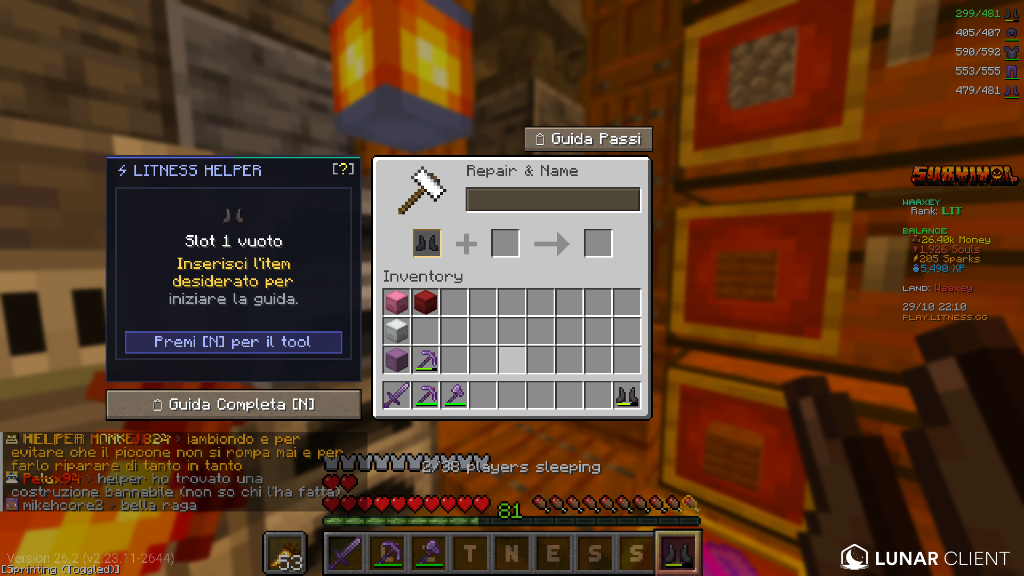
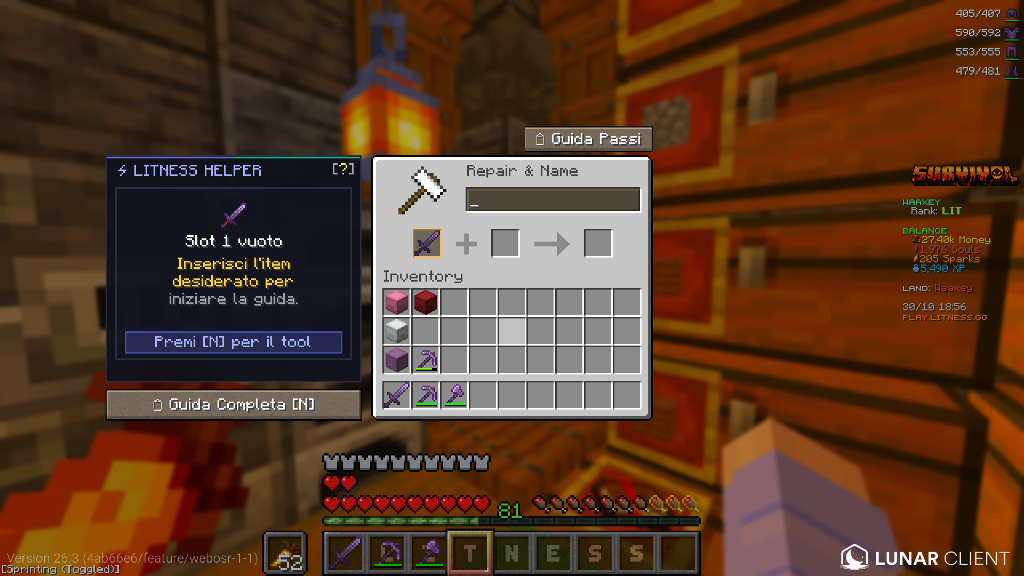
Fix: ampliata GUI incudine laterale, istruzioni unione libri migliorate, fix click /ah e preview incudine pulita

diff --git a/src/client/java/com/litness/optimizer/mixin/AnvilScreenMixin.java b/src/client/java/com/litness/optimizer/mixin/AnvilScreenMixin.java
@@ -55,7 +55,7 @@ public abstract class AnvilScreenMixin extends ItemCombinerScreen<AnvilMenu> {
     }
 
     private int getSidebarWidth() {
-        return 160;
+        return 182;
     }
 
     private int getSidebarX() {
@@ -80,12 +80,14 @@ public abstract class AnvilScreenMixin extends ItemCombinerScreen<AnvilMenu> {
     private void litness_addOptimizerButton(CallbackInfo ci) {
         int sideW = getSidebarWidth();
         int sideX = getSidebarX();
-        int btnY = this.topPos + this.imageHeight - 20;
+        int sideY = this.topPos - 14;
+        int sideH = this.imageHeight + 10;
+        int btnY = sideY + sideH + 3;
 
         // 1. Tasto nella sidebar sotto l'helper
         this.addRenderableWidget(Button.builder(Component.literal("📋 Guida Completa [N]"), button -> {
             openOptimizer();
-        }).bounds(sideX, btnY, sideW, 20).build());
+        }).bounds(sideX, btnY, sideW, 18).build());
 
         // 2. Tasto rapido direttamente sopra l'incudine (nessuna sovrapposizione con il titolo)
         int topBtnW = 80;
@@ -111,8 +113,8 @@ public abstract class AnvilScreenMixin extends ItemCombinerScreen<AnvilMenu> {
 
             int sideW = getSidebarWidth();
             int sideX = getSidebarX();
-            int sideY = this.topPos;
-            int sideH = this.imageHeight - 24;
+            int sideY = this.topPos - 14;
+            int sideH = this.imageHeight + 10;
 
             // Box scuro elegante laterale (stile dark glass premium)
             extractor.fill(sideX, sideY, sideX + sideW, sideY + sideH, 0xF20F111A);
@@ -146,36 +148,36 @@ public abstract class AnvilScreenMixin extends ItemCombinerScreen<AnvilMenu> {
 
                 // Box interno per l'oggetto inserito
                 int wellY = sideY + 18;
-                int wellH = 37;
+                int wellH = 38;
                 extractor.fill(sideX + 6, wellY, sideX + sideW - 6, wellY + wellH, 0x60161826);
                 extractor.outline(sideX + 6, wellY, sideW - 12, wellH, 0xFF26293D);
 
                 // Icona 3D dell'oggetto
-                extractor.fakeItem(slot0, sideX + 9, wellY + 10);
+                extractor.fakeItem(slot0, sideX + 9, wellY + 11);
 
                 // Nome oggetto
                 String itemName = slot0.getHoverName().getString();
-                String trimmedName = trimToWidth(itemName, sideW - 44);
+                String trimmedName = trimToWidth(itemName, sideW - 38);
                 extractor.text(this.font, trimmedName, sideX + 30, wellY + 4, 0xFFFFFFFF, false);
 
                 // Penalità di lavoro
                 if (penalty == 0) {
-                    extractor.text(this.font, "Penalità: 0 liv.", sideX + 30, wellY + 14, 0xFF34D399, false);
+                    extractor.text(this.font, "Penalità: 0 liv.", sideX + 30, wellY + 15, 0xFF34D399, false);
                 } else {
-                    extractor.text(this.font, "Penalità: +" + penalty + " liv.", sideX + 30, wellY + 14, 0xFFF59E0B, false);
+                    extractor.text(this.font, "Penalità: +" + penalty + " liv.", sideX + 30, wellY + 15, 0xFFF59E0B, false);
                 }
 
                 // Analisi Maxabilità (se il player ha già incantato senza guida)
                 com.litness.optimizer.calculator.MaxabilityAnalyzer.MaxabilityResult maxability =
                         com.litness.optimizer.calculator.MaxabilityAnalyzer.analyze(slot0, cachedSlot0Enchants);
                 String maxBadge = trimToWidth(maxability.statusBadge, sideW - 36);
-                extractor.text(this.font, maxBadge, sideX + 30, wellY + 25, 0xFFFFFFFF, false);
+                extractor.text(this.font, maxBadge, sideX + 30, wellY + 26, 0xFFFFFFFF, false);
 
                 if (mouseX >= sideX + 6 && mouseX <= sideX + sideW - 6 && mouseY >= wellY && mouseY <= wellY + wellH) {
                     com.litness.optimizer.gui.AnvilTooltipState.hoveredMaxabilityResult = maxability;
                 }
 
-                int curY = wellY + wellH + 4;
+                int curY = wellY + wellH + 5;
 
                 // Incantesimi già presenti sull'oggetto
                 if (!cachedSlot0Enchants.isEmpty()) {
@@ -200,9 +202,9 @@ public abstract class AnvilScreenMixin extends ItemCombinerScreen<AnvilMenu> {
                 }
 
                 // Card Prossima Mossa
-                int cardBottom = sideY + sideH - 12;
-                int moveY = Math.max(curY + 3, sideY + 54);
-                int moveH = Math.max(44, cardBottom - moveY);
+                int cardBottom = sideY + sideH - 7;
+                int moveY = Math.max(curY + 4, sideY + 60);
+                int moveH = cardBottom - moveY;
 
                 if (cachedSolution != null && !cachedSolution.steps.isEmpty()) {
                     MergeStep nextStep = cachedSolution.steps.get(0);
@@ -246,30 +248,36 @@ public abstract class AnvilScreenMixin extends ItemCombinerScreen<AnvilMenu> {
                     String icon = ItemTypeHelper.getActionIcon(cachedItemKey);
 
                     String badge = nextStep.isBookToBook 
-                        ? "🔨 UNISCI LIBRI (1/" + totalSteps + ")" 
+                        ? "🔨 UNISCI 2 LIBRI (1/" + totalSteps + ")" 
                         : icon + " " + actionName + " (1/" + totalSteps + ")";
                     int badgeColor = nextStep.isBookToBook ? 0xFFFBBF24 : 0xFF34D399;
-                    extractor.text(this.font, badge, sideX + 10, moveY + 4, badgeColor, false);
+                    extractor.text(this.font, badge, sideX + 10, moveY + 5, badgeColor, false);
 
                     if (!slot1.isEmpty()) {
                         if (activeConflict != null) {
-                            extractor.text(this.font, "§e⚠ Conflitto!", sideX + sideW - 68, moveY + 4, 0xFFFBBF24, false);
+                            extractor.text(this.font, "§e⚠ Conflitto!", sideX + sideW - 68, moveY + 5, 0xFFFBBF24, false);
                         } else {
-                            extractor.text(this.font, "✓ Inserito", sideX + sideW - 54, moveY + 4, 0xFF34D399, false);
+                            extractor.text(this.font, "✓ Inserito", sideX + sideW - 54, moveY + 5, 0xFF34D399, false);
                         }
                     }
 
                     if (nextStep.isBookToBook) {
-                        String l1 = trimToWidth("1. " + nextStep.leftLabel, sideW - 20);
-                        String l2 = trimToWidth("2. " + nextStep.rightLabel, sideW - 20);
-                        extractor.text(this.font, l1, sideX + 10, moveY + 16, 0xFF93C5FD, false);
-                        extractor.text(this.font, l2, sideX + 10, moveY + 26, 0xFFF472B6, false);
-                        extractor.text(this.font, "Costo: " + nextStep.cost + " liv. XP", sideX + 10, moveY + 36, 0xFFFBBF24, false);
+                        String l1 = trimToWidth(nextStep.leftLabel, sideW - 55);
+                        String l2 = trimToWidth(nextStep.rightLabel, sideW - 55);
+                        extractor.text(this.font, "Slot 1: §b" + l1, sideX + 10, moveY + 18, 0xFF9CA3AF, false);
+                        extractor.text(this.font, "Slot 2: §d" + l2, sideX + 10, moveY + 30, 0xFF9CA3AF, false);
+                        extractor.text(this.font, "⚡ Costo: §a" + nextStep.cost + " liv. XP", sideX + 10, moveY + 42, 0xFF34D399, false);
+                        if (!slot0.is(Items.ENCHANTED_BOOK) && !slot0.is(Items.BOOK) && moveH >= 65) {
+                            extractor.text(this.font, "§6💡 Metti prima i 2 libri", sideX + 10, moveY + 54, 0xFFF59E0B, false);
+                        }
                     } else {
-                        extractor.text(this.font, "Metti nello slot 2:", sideX + 10, moveY + 15, 0xFFE0E7FF, false);
+                        extractor.text(this.font, "Metti nello §eSlot 2§7:", sideX + 10, moveY + 18, 0xFFE0E7FF, false);
                         String bName = trimToWidth("• " + nextStep.rightLabel, sideW - 20);
-                        extractor.text(this.font, bName, sideX + 10, moveY + 26, 0xFF34D399, false);
-                        extractor.text(this.font, "Costo: " + nextStep.cost + " liv. XP", sideX + 10, moveY + 37, 0xFFFBBF24, false);
+                        extractor.text(this.font, bName, sideX + 10, moveY + 30, 0xFF34D399, false);
+                        extractor.text(this.font, "⚡ Costo: §a" + nextStep.cost + " liv. XP", sideX + 10, moveY + 42, 0xFF34D399, false);
+                        if (moveH >= 65) {
+                            extractor.text(this.font, "§8(Premi [N] per tutta la guida)", sideX + 10, moveY + 54, 0xFF94A3B8, false);
+                        }
                     }
                 } else {
                     maxability = com.litness.optimizer.calculator.MaxabilityAnalyzer.analyze(slot0, cachedSlot0Enchants);
@@ -277,20 +285,20 @@ public abstract class AnvilScreenMixin extends ItemCombinerScreen<AnvilMenu> {
                     extractor.outline(sideX + 6, moveY, sideW - 12, moveH, 0xFF334155);
 
                     if (maxability.status == com.litness.optimizer.calculator.MaxabilityAnalyzer.Status.SATURATED) {
-                        extractor.text(this.font, "§c⛔ TROPPO COSTOSO!", sideX + 10, moveY + 4, 0xFFEF4444, false);
-                        extractor.text(this.font, "Penalità +" + penalty + " troppo alta,", sideX + 10, moveY + 16, 0xFFE2E8F0, false);
-                        extractor.text(this.font, "l'incudine blocca i libri.", sideX + 10, moveY + 26, 0xFF94A3B8, false);
-                        extractor.text(this.font, "Premi [N] per spiegazione", sideX + 10, moveY + 37, 0xFF818CF8, false);
+                        extractor.text(this.font, "§c⛔ TROPPO COSTOSO!", sideX + 10, moveY + 5, 0xFFEF4444, false);
+                        extractor.text(this.font, "Penalità +" + penalty + " troppo alta,", sideX + 10, moveY + 18, 0xFFE2E8F0, false);
+                        extractor.text(this.font, "l'incudine blocca i libri.", sideX + 10, moveY + 30, 0xFF94A3B8, false);
+                        extractor.text(this.font, "Premi [N] per spiegazione", sideX + 10, moveY + 43, 0xFF818CF8, false);
                     } else if (maxability.status == com.litness.optimizer.calculator.MaxabilityAnalyzer.Status.PARTIALLY_MAXABLE) {
-                        extractor.text(this.font, "§e⚠ ATTENZIONE PENALITÀ", sideX + 10, moveY + 4, 0xFFF59E0B, false);
-                        extractor.text(this.font, "Puoi aggiungere ancora", sideX + 10, moveY + 15, 0xFFE2E8F0, false);
-                        extractor.text(this.font, "fino a §a+" + maxability.maxAddable + " incanti §7con guida.", sideX + 10, moveY + 26, 0xFFFFFFFF, false);
-                        extractor.text(this.font, "Premi [N] per simulare!", sideX + 10, moveY + 37, 0xFF818CF8, false);
+                        extractor.text(this.font, "§e⚠ ATTENZIONE PENALITÀ", sideX + 10, moveY + 5, 0xFFF59E0B, false);
+                        extractor.text(this.font, "Puoi aggiungere ancora", sideX + 10, moveY + 18, 0xFFE2E8F0, false);
+                        extractor.text(this.font, "fino a §a+" + maxability.maxAddable + " incanti §7con guida.", sideX + 10, moveY + 30, 0xFFFFFFFF, false);
+                        extractor.text(this.font, "Premi [N] per simulare!", sideX + 10, moveY + 43, 0xFF818CF8, false);
                     } else {
-                        extractor.text(this.font, "ENCHANT HELPER", sideX + 10, moveY + 4, 0xFF94A3B8, false);
-                        extractor.text(this.font, "Nessun libro compatibile", sideX + 10, moveY + 16, 0xFFE2E8F0, false);
-                        extractor.text(this.font, "trovato nell'inventario.", sideX + 10, moveY + 26, 0xFF94A3B8, false);
-                        extractor.text(this.font, "Premi [N] per simulare!", sideX + 10, moveY + 37, 0xFF818CF8, false);
+                        extractor.text(this.font, "⚡ ENCHANT HELPER", sideX + 10, moveY + 5, 0xFF94A3B8, false);
+                        extractor.text(this.font, "Nessun libro compatibile", sideX + 10, moveY + 18, 0xFFE2E8F0, false);
+                        extractor.text(this.font, "trovato nell'inventario.", sideX + 10, moveY + 30, 0xFF94A3B8, false);
+                        extractor.text(this.font, "Premi [N] per simulare!", sideX + 10, moveY + 43, 0xFF818CF8, false);
                     }
                 }
             } else {
@@ -329,22 +337,23 @@ public abstract class AnvilScreenMixin extends ItemCombinerScreen<AnvilMenu> {
 
                 // Empty state pulito e curato con suggerimento dinamico dell'oggetto
                 int cardY = sideY + 20;
-                int cardH = sideH - 34;
+                int cardH = sideH - 32;
 
                 extractor.fill(sideX + 6, cardY, sideX + sideW - 6, cardY + cardH, 0x40161826);
                 extractor.outline(sideX + 6, cardY, sideW - 12, cardH, 0xFF2A2D40);
 
-                extractor.fakeItem(ghostItem, sideX + (sideW / 2) - 8, cardY + 10);
+                int midX = sideX + (sideW / 2);
+                extractor.fakeItem(ghostItem, midX - 8, cardY + 18);
 
-                extractor.centeredText(this.font, "Slot 1 vuoto", sideX + (sideW / 2), cardY + 30, 0xFFFFFFFF);
-                extractor.centeredText(this.font, "Inserisci l'item", sideX + (sideW / 2), cardY + 44, 0xFFFCD34D);
-                extractor.centeredText(this.font, "desiderato per", sideX + (sideW / 2), cardY + 55, 0xFFFCD34D);
-                extractor.centeredText(this.font, "iniziare la guida.", sideX + (sideW / 2), cardY + 66, 0xFF9CA3AF);
+                extractor.centeredText(this.font, "Slot 1 vuoto", midX, cardY + 42, 0xFFFFFFFF);
+                extractor.centeredText(this.font, "Inserisci l'item", midX, cardY + 58, 0xFFFCD34D);
+                extractor.centeredText(this.font, "desiderato per", midX, cardY + 70, 0xFFFCD34D);
+                extractor.centeredText(this.font, "iniziare la guida.", midX, cardY + 82, 0xFF9CA3AF);
 
-                int pillY = cardY + cardH - 18;
-                extractor.fill(sideX + 12, pillY, sideX + sideW - 12, pillY + 14, 0x406366F1);
-                extractor.outline(sideX + 12, pillY, sideW - 24, 14, 0x806366F1);
-                extractor.centeredText(this.font, "Premi [N] per il tool", sideX + (sideW / 2), pillY + 3, 0xFFA5B4FC);
+                int pillY = cardY + cardH - 22;
+                extractor.fill(sideX + 12, pillY, sideX + sideW - 12, pillY + 16, 0x406366F1);
+                extractor.outline(sideX + 12, pillY, sideW - 24, 16, 0x806366F1);
+                extractor.centeredText(this.font, "Premi [N] per il tool", midX, pillY + 4, 0xFFA5B4FC);
             }
         } catch (Throwable t) {
             // Silenzia

diff --git a/src/client/java/com/litness/optimizer/gui/AhPriceManager.java b/src/client/java/com/litness/optimizer/gui/AhPriceManager.java
@@ -784,28 +784,41 @@ public class AhPriceManager {
         double mouseX = event.x();
         double mouseY = event.y();
         int button = event.button();
+        boolean isLeftClick = (button == 0 || button == InputConstants.MOUSE_BUTTON_LEFT);
 
-        if (button == 0 && hoveredSuggestionIndex >= 0 && hoveredSuggestionIndex < currentSuggestions.size()) {
-            AutocompleteSuggestion s = currentSuggestions.get(hoveredSuggestionIndex);
-            ActiveSessionManager.toggleSearchEnchant(s.searchKey);
-            if (searchBox != null) {
-                searchBox.setValue("");
-                searchBox.setFocused(false);
+        // 1. Click su un suggerimento della tendina di completamento
+        if (isLeftClick && !currentSuggestions.isEmpty() && dropW > 0 && dropH > 0) {
+            int targetIndex = -1;
+            if (mouseX >= dropX && mouseX <= dropX + dropW && mouseY >= dropY && mouseY <= dropY + dropH) {
+                targetIndex = (int) ((mouseY - (dropY + 2)) / 18);
+            } else if (hoveredSuggestionIndex >= 0) {
+                targetIndex = hoveredSuggestionIndex;
             }
-            if (screen != null && screen.getFocused() == searchBox) {
-                screen.setFocused(null);
+
+            if (targetIndex >= 0 && targetIndex < currentSuggestions.size()) {
+                AutocompleteSuggestion s = currentSuggestions.get(targetIndex);
+                ActiveSessionManager.toggleSearchEnchant(s.searchKey);
+                if (searchBox != null) {
+                    searchBox.setValue("");
+                    searchBox.setFocused(false);
+                }
+                if (screen != null && screen.getFocused() == searchBox) {
+                    screen.setFocused(null);
+                }
+                currentSuggestions.clear();
+                hoveredSuggestionIndex = -1;
+                clearCache();
+                Minecraft mc = Minecraft.getInstance();
+                if (mc.player != null) {
+                    mc.player.sendOverlayMessage(Component.literal("§a✔ Filtro attivato: " + s.displayName));
+                }
+                return true;
             }
-            currentSuggestions.clear();
-            hoveredSuggestionIndex = -1;
-            clearCache();
-            Minecraft mc = Minecraft.getInstance();
-            if (mc.player != null) {
-                mc.player.sendOverlayMessage(Component.literal("§a✔ Filtro attivato: " + s.displayName));
-            }
-            return true;
         }
 
-        if (button == 0 && isClearHovered) {
+        // 2. Click sul pulsante Azzera
+        boolean clickedClear = isClearHovered || (mouseX >= btnClearX && mouseX <= btnClearX + btnClearW && mouseY >= btnClearY && mouseY <= btnClearY + btnClearH);
+        if (isLeftClick && clickedClear) {
             ActiveSessionManager.clearSearchEnchants();
             if (searchBox != null) {
                 searchBox.setValue("");
@@ -824,8 +837,8 @@ public class AhPriceManager {
             return true;
         }
 
-        // Click sulla barra di ricerca
-        if (button == 0 && searchBox != null && searchBox.visible) {
+        // 3. Click sulla barra di ricerca
+        if (isLeftClick && searchBox != null && searchBox.visible) {
             if (mouseX >= lastSearchBoxX && mouseX <= lastSearchBoxX + lastSearchBoxW &&
                 mouseY >= lastSearchBoxY && mouseY <= lastSearchBoxY + lastSearchBoxH) {
                 searchBox.setFocused(true);
